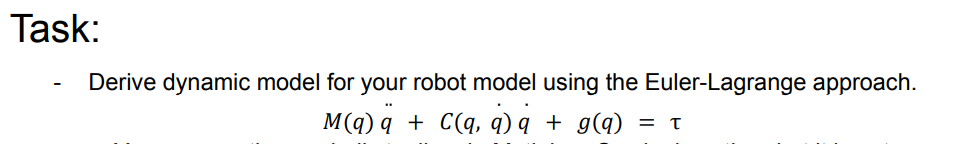
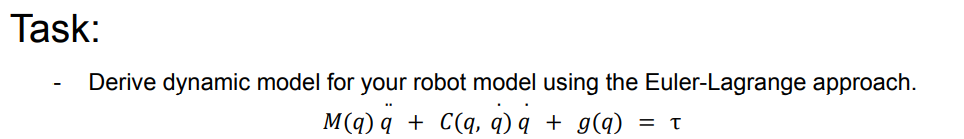
README Assignment 4

diff --git a/Dynamics of non linear robotic systems/Assignment 4/README.md b/Dynamics of non linear robotic systems/Assignment 4/README.md
@@ -1,4 +1,4 @@
-# Assignment 2  
-[![Open In Colab](https://colab.research.google.com/assets/colab-badge.svg)](https://colab.research.google.com/github/4ku/Inno-robotics-labs/blob/master/Dynamics%20of%20non%20linear%20robotic%20systems/Assignment%202/Jacobians.ipynb)
+# Assignment 4  
+[![Open In Colab](https://colab.research.google.com/assets/colab-badge.svg)](https://colab.research.google.com/github/4ku/Inno-robotics-labs/blob/master/Dynamics%20of%20non%20linear%20robotic%20systems/Assignment%204/Assignment%204.ipynb)
 
-![](Example.gif)
+![](Task_description2.png)
